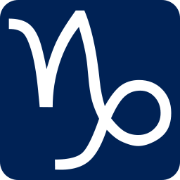
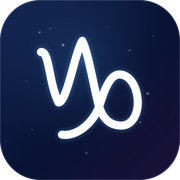
chore(fe): 更新品牌横幅与站点图标
- README 头部改用 docs/brand/banner.png
- 重新生成 favicon、apple-touch-icon 与 Android/PWA 图标

diff --git a/README.md b/README.md
@@ -1,5 +1,5 @@
 <p align="center">
-  <img src="docs/brand/capri.png" alt="Capri mark" width="88" />
+  <img src="docs/brand/banner.png" alt="Capri" />
 </p>
 
 <h1 align="center">Capri FE</h1>
